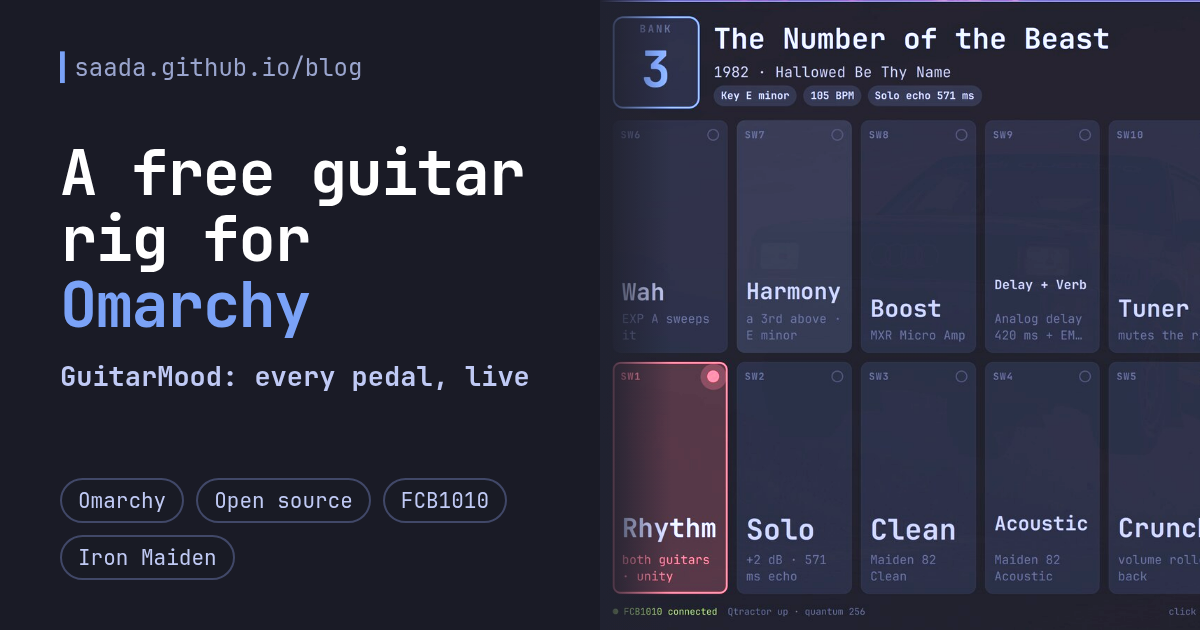
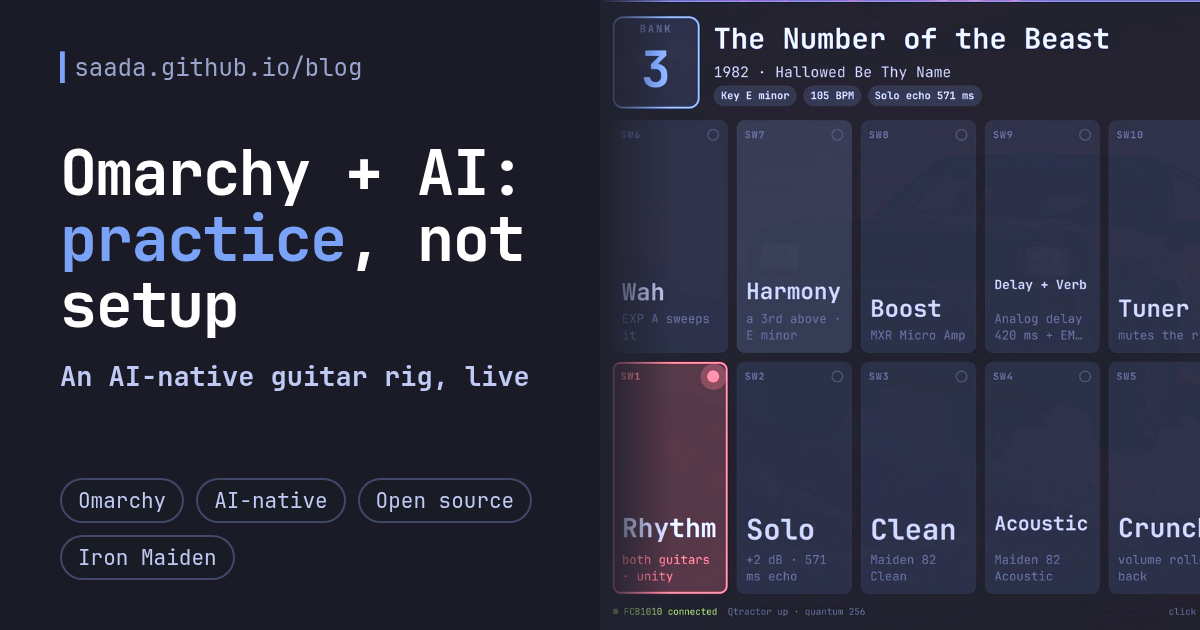
tone3000-linux-rig: frame it as Omarchy + AI-first = practice, not setup
- TL;DR, act one and a new ending ("The point: practice") around the thesis: the tone is
  neural (NAM), an agent (Claude Code running Claude Opus 5.5) built every piece, and the
  result leaves no setup to think about.
- New section "Why Omarchy made this possible", verified on this machine: Claude Code,
  Codex and OpenCode installed via mise; omarchy-agent / omarchy-agent-prompt; usage
  meters; omarchy-theme-set-claude; hyprctl Lua, omarchy-shell IPC, omarchy bar set; the
  QML plugin marketplace.
- Light lines in acts two and five (an agent can't click; it wired GuitarMood into the
  desktop itself). Trimmed elsewhere to stay at ~2,600 words.
- og/twitter description (189 chars) and the card: "Omarchy + AI: practice, not setup",
  kicker "An AI-native guitar rig, live", tags Omarchy / AI-native / Open source / Iron Maiden.

Claude-Session: https://claude.ai/code/session_012TKPMMo4XzZnfbupbKYXAR

Changed region(s): [[0.0308, 0.2413, 0.4317, 0.5429], [0.0308, 0.573, 0.37, 0.6333], [0.185, 0.754, 0.4317, 0.8444]]

diff --git a/blog/tone3000-linux-rig/index.html b/blog/tone3000-linux-rig/index.html
@@ -3,7 +3,7 @@
 <meta charset="utf-8">
 <meta name="viewport" content="width=device-width, initial-scale=1">
 <title>From Wine to GuitarMood: A Free, Native Linux Guitar Rig Anyone Can Run</title>
-<meta name="description" content="Part two: my FCB1010 now drives a free, open-source guitar rig on Omarchy. Seven eras of Iron Maiden, and GuitarMood, an app that is the pedalboard: open it to play, close it to stop.">
+<meta name="description" content="Part two: on AI-first Omarchy, an agent built my whole guitar rig, from neural amp tones to GuitarMood, the app that is my pedalboard. Free, open source, no setup left. Now I just practice.">
 <meta name="author" content="Mahmoud Saada">
 <meta name="keywords" content="GuitarMood, Omarchy, Hyprland, TONE3000, Neural Amp Modeler, NAM, Qtractor, Iron Maiden, Fretwise, FCB1010, Linux guitar, open source, PipeWire, Qt, PySide6">
 <meta name="robots" content="index, follow, max-image-preview:large, max-snippet:-1">
@@ -12,10 +12,10 @@
 <meta property="og:type" content="article">
 <meta property="og:site_name" content="Mahmoud Saada">
 <meta property="og:title" content="From Wine to GuitarMood: A Free, Native Linux Guitar Rig Anyone Can Run">
-<meta property="og:description" content="Part two: my FCB1010 now drives a free, open-source guitar rig on Omarchy. Seven eras of Iron Maiden, and GuitarMood, an app that is the pedalboard: open it to play, close it to stop.">
+<meta property="og:description" content="Part two: on AI-first Omarchy, an agent built my whole guitar rig, from neural amp tones to GuitarMood, the app that is my pedalboard. Free, open source, no setup left. Now I just practice.">
 <meta property="og:url" content="https://saada.github.io/blog/tone3000-linux-rig/">
 <meta property="og:locale" content="en_US">
-<meta property="og:image" content="https://saada.github.io/blog/tone3000-linux-rig/images/og-card.png?v=008c1c9fc7">
+<meta property="og:image" content="https://saada.github.io/blog/tone3000-linux-rig/images/og-card.png?v=e06c1ebc09">
 <meta property="og:image:width" content="1200">
 <meta property="og:image:height" content="630">
 <meta property="og:image:alt" content="GuitarMood, a free guitar rig app for Omarchy: the FCB1010 pedalboard live on screen, bank 3, RHYTHM lit">
@@ -30,8 +30,8 @@
 <meta name="twitter:site" content="@saadazzz">
 <meta name="twitter:creator" content="@saadazzz">
 <meta name="twitter:title" content="From Wine to GuitarMood: A Free, Native Linux Guitar Rig Anyone Can Run">
-<meta name="twitter:description" content="Part two: my FCB1010 now drives a free, open-source guitar rig on Omarchy. Seven eras of Iron Maiden, and GuitarMood, an app that is the pedalboard: open it to play, close it to stop.">
-<meta name="twitter:image" content="https://saada.github.io/blog/tone3000-linux-rig/images/og-card.png?v=008c1c9fc7">
+<meta name="twitter:description" content="Part two: on AI-first Omarchy, an agent built my whole guitar rig, from neural amp tones to GuitarMood, the app that is my pedalboard. Free, open source, no setup left. Now I just practice.">
+<meta name="twitter:image" content="https://saada.github.io/blog/tone3000-linux-rig/images/og-card.png?v=e06c1ebc09">
 <meta name="twitter:image:alt" content="GuitarMood, a free guitar rig app for Omarchy: the FCB1010 pedalboard live on screen, bank 3, RHYTHM lit">
 <script type="application/ld+json">
 {
@@ -39,7 +39,7 @@
   "@type": "BlogPosting",
   "mainEntityOfPage": { "@type": "WebPage", "@id": "https://saada.github.io/blog/tone3000-linux-rig/" },
   "headline": "From Wine to GuitarMood: A Free, Native Linux Guitar Rig Anyone Can Run",
-  "description": "Part two: my FCB1010 now drives a free, open-source guitar rig on Omarchy. Seven eras of Iron Maiden, and GuitarMood, an app that is the pedalboard: open it to play, close it to stop.",
+  "description": "Part two: on AI-first Omarchy, an agent built my whole guitar rig, from neural amp tones to GuitarMood, the app that is my pedalboard. Free, open source, no setup left. Now I just practice.",
   "image": "https://saada.github.io/blog/tone3000-linux-rig/images/og-card.png",
   "datePublished": "2026-09-26T00:00:00Z",
   "dateModified": "2026-09-27T00:00:00Z",
@@ -370,7 +370,7 @@ table.licenses .muted { display:block; font-size:.68rem }
     <div class="terminal__body">
       <div class="prompt">cat tone3000-linux-rig.md</div>
       <h1>From Wine to GuitarMood: A Free, Native Linux Guitar Rig Anyone Can Run</h1>
-      <div class="subtitle">Part two: my FCB1010 now drives a free, open-source guitar rig on Omarchy. Seven eras of Iron Maiden, and GuitarMood, an app that is the pedalboard: open it to play, close it to stop.<span class="cursor">▋</span></div>
+      <div class="subtitle">Part two: on AI-first Omarchy, an agent built my whole guitar rig, from neural amp tones to GuitarMood, the app that is my pedalboard. Free, open source, no setup left. Now I just practice.<span class="cursor">▋</span></div>
     </div>
   </header>
   <article>
@@ -386,13 +386,13 @@ table.licenses .muted { display:block; font-size:.68rem }
 
 <div class="callout tldr">
 <div class="callout__title">TL;DR</div>
-<p>Last time, my FCB1010 finally drove BIAS FX 2. Now it drives a guitar rig that runs natively on Linux, where every piece of software is free and open source. <strong>GuitarMood</strong> is its face: open it from the Omarchy launcher and the whole rig starts; the window <em>is</em> the pedalboard, live and two-way; close it and everything saves and shuts down. It tiles, it autoscales, and it wears your Omarchy theme.</p>
+<p>Last time, my FCB1010 finally drove BIAS FX 2. Now it drives a guitar rig that's AI-native end to end, on <a href="https://omarchy.org">Omarchy</a>. The tone is neural: amp models learned from real gear. The rig was built by an agent: Claude Code running Claude Opus 5.5 wrote every piece, down to <strong>GuitarMood</strong>, the app that <em>is</em> my pedalboard. And there's no setup left to think about: open GuitarMood, stomp, play. Omarchy made that possible, because an agent can drive every part of it. All of it is free and open source.</p>
 <p class="small muted">A 10-minute read. Every experiment, chart and preset behind it is in the <a href="lab/">lab notes</a>. Code: <a href="https://github.com/saada/fcb1010-biasfx2">github.com/saada/fcb1010-biasfx2</a> (MIT).</p>
 </div>
 
 <p class="act" id="act-one">Act one · leaving Wine</p>
 <h2>10 ms on paper, mud in my hands</h2>
-<p><a href="/blog/fcb1010-biasfx2/">Last time</a>, the pedalboard that lived under my desk for years finally talked to BIAS FX 2, and I stood in my living room grinning through The Evil That Men Do. Then I did the thing every developer threatens to do: I left macOS for <a href="https://omarchy.org">Omarchy</a>, the opinionated Arch + Hyprland setup. I love it. My guitar rig did not come along quietly.</p>
+<p><a href="/blog/fcb1010-biasfx2/">Last time</a>, the pedalboard that lived under my desk for years finally talked to BIAS FX 2, and I stood in my living room grinning through The Evil That Men Do. Then I did the thing every developer threatens to do: I left macOS for <a href="https://omarchy.org">Omarchy</a>, the opinionated Arch + Hyprland setup. I love it. It's also AI-first: it ships with Claude Code, Codex and OpenCode installed. I didn't expect that to matter for guitar. It turned out to be the whole story. My guitar rig, meanwhile, did not come along quietly.</p>
 <p>BIAS FX 2 is Windows/macOS only, so it came along under Wine. The scripts from last time still worked, presets loaded, the pedal switched them, and the app claimed about 10 ms of latency. It felt like playing through a swimming pool. That number only covers the app's own buffer; under Wine the audio also crosses an ASIO shim, a JACK bridge and PipeWire, and none of that shows up in the friendly "10 ms". Skill issue? Maybe. Architecture issue? Definitely.</p>
 
 <h2>A native amp sim, and presets as code</h2>
@@ -402,7 +402,7 @@ table.licenses .muted { display:block; font-size:.68rem }
 
 <p class="act" id="part-two">Act two · a DAW nobody clicks</p>
 <h2>Generated, never clicked</h2>
-<p>A standalone amp sim can't do a real wah, a harmony or a compressor. A DAW can, but DAWs want you to click. So the DAW is generated: <code>qtractor_rig.py</code> writes the entire <a href="https://qtractor.org">Qtractor</a> session (tracks, plugins, MIDI bindings) and starts it. Nothing in it was ever touched with a mouse. A compressor and limiter on the way out cut the loudness spread across presets from 9.2 to 4.6 dB and ended a day of hand-levelling. (<a href="lab/#part-two">Picking the DAW, and whether the compressor earned its place →</a>)</p>
+<p>A standalone amp sim can't do a real wah, a harmony or a compressor. A DAW can, but DAWs want you to click, and an agent can't click. It can write files and run commands, so the DAW is generated: <code>qtractor_rig.py</code> writes the entire <a href="https://qtractor.org">Qtractor</a> session (tracks, plugins, MIDI bindings) and starts it. Nothing in it was ever touched with a mouse. A compressor and limiter on the way out cut the loudness spread across presets from 9.2 to 4.6 dB and ended a day of hand-levelling. (<a href="lab/#part-two">Picking the DAW, and whether the compressor earned its place →</a>)</p>
 
 <p class="act" id="maiden">Act three · up the Irons</p>
 <h2>Seven eras of Maiden on one floorboard</h2>
@@ -440,7 +440,7 @@ table.licenses .muted { display:block; font-size:.68rem }
 
 <p class="act">Act five · GuitarMood</p>
 <h2 id="guitarmood">GuitarMood: the rig as an Omarchy app</h2>
-<p>Last time I ended with a promise: a TUI that draws the pedalboard and lights up the switch you just stomped. By now the rig sounded right, but using it still meant a terminal to start it and a pedal that tells you nothing. The FCB1010 shows a bank number and one LED. Is the wah on? Did the boost reset when I changed song? Which bank was Fear of the Dark? So I asked for "a desktop app that shows live status of what i selected in the pedal as a hypland tile and autoscale and plays nice with omarchy... I don't have to guess anything."</p>
+<p>Last time I ended with a promise: a TUI that draws the pedalboard and lights up the switch you just stomped. By now the rig sounded right, but using it still meant a terminal to start it and a pedal that tells you nothing. Is the wah on? Did the boost reset? Which bank was Fear of the Dark? So I asked for "a desktop app that shows live status of what i selected in the pedal as a hypland tile and autoscale and plays nice with omarchy... I don't have to guess anything."</p>
 <p>Claude's first plan was GTK. I asked: "omarchy seems to love Qt?" It does: the Omarchy shell is <a href="https://quickshell.org">Quickshell</a>, which is QML. So the promised TUI grew into a Qt window instead: GuitarMood, a <a href="https://docs.astral.sh/uv/">uv</a> project with a QML front end. (Editing the layout from it is still to come; the board itself is still two tables in <code>rig.py</code>.) It reads the active theme's colours and recolours live when I switch themes.</p>
 
 <h3>The window is the pedalboard</h3>
@@ -462,10 +462,10 @@ table.licenses .muted { display:block; font-size:.68rem }
 <p class="caption">Popped out with SUPER+O: bank 3, RHYTHM, five toggles, none on.</p>
 
 <h3>Never guess</h3>
-<p>The pedal only sends fixed messages (a toggle sends the same CC 127 whether it's switching on or off), so GuitarMood rebuilds the state from the MIDI, following the rig's own rules. DAW effects (wah, harmony) survive a song change; amp-sim blocks (boost, delay) reset to the preset's own state on every preset load; the scene is read from the message that ends each switch's burst. If it joins a rig that's already running, it reads what it can from the saved session and shows "?" for the rest until you press something. The tests replay the MIDI of the first real session I played and check that it ends exactly where I did.</p>
+<p>The pedal only sends fixed messages (a toggle sends CC 127 whether it's switching on or off), so GuitarMood rebuilds the state from the MIDI by the rig's own rules: DAW effects survive a song change, amp-sim blocks reset on every preset load. Anything it can't know shows "?" until you press a switch. The tests replay my first real session and check it ends exactly where I did.</p>
 
 <h3>On is open, off is close, and it's two-way</h3>
-<p>Open it from the launcher and the rig starts, with Qtractor parked on a hidden workspace. A second launch just focuses the window. Close it (SUPER+W), log out or Ctrl-C, and it closes the tuner, saves the session and quits Qtractor; tested end to end, nothing left running. And it works both ways: click a tile or press 1–9, 0 and GuitarMood sends exactly what the FCB would, from the same code that wrote the pedal's layout. The pedal itself can't be told anything, so its own display keeps its bank, and presses from the screen are marked "on screen". (<a href="lab/#guitarmood">How it works, in detail →</a>)</p>
+<p>Because every part of Omarchy is a command, the agent wired GuitarMood into the desktop itself: a launcher entry, and a Hyprland rule that parks Qtractor on a hidden workspace. Open it and the rig starts. A second launch just focuses the window. Close it (SUPER+W), log out or Ctrl-C, and it closes the tuner, saves the session and quits Qtractor; tested end to end, nothing left running. And it works both ways: click a tile or press 1–9, 0 and GuitarMood sends exactly what the FCB would, from the same code that wrote the pedal's layout. The pedal itself can't be told anything, so its own display keeps its bank, and presses from the screen are marked "on screen". (<a href="lab/#guitarmood">How it works, in detail →</a>)</p>
 
 <div class="stats" role="list">
 <div class="stat" role="listitem"><div class="stat__n">0.0%</div><div class="stat__l">GuitarMood's CPU, rig live</div></div>
@@ -474,6 +474,15 @@ table.licenses .muted { display:block; font-size:.68rem }
 <div class="stat" role="listitem"><div class="stat__n">9.2 → 4.6</div><div class="stat__l">dB of loudness spread, compressor on</div></div>
 </div>
 <p class="caption">The numbers, from btop and <a href="https://github.com/saada/fcb1010-biasfx2/blob/main/experiments/README.md">experiments</a> D1, D5, D6 and D11. <a href="lab/#part-two">Charts →</a></p>
+
+<h2 id="why-omarchy">Why Omarchy made this possible</h2>
+<p>None of this took a mouse, and that's not me being stubborn. It's what Omarchy is built for. It's AI-first in exactly the places an agent needs:</p>
+<ul>
+<li><strong>The agents are already there.</strong> Claude Code, Codex and OpenCode come installed. <code>omarchy-agent</code> opens your default one; <code>omarchy-agent-prompt</code> hands it a task. There are usage meters for Claude and Codex, and your Omarchy theme follows you into Claude Code.</li>
+<li><strong>Everything is a command.</strong> Hyprland takes Lua through <code>hyprctl</code>, the shell answers IPC through <code>omarchy-shell</code>, and bar widgets are set with <code>omarchy bar set</code>. That's how Qtractor ends up out of sight, and how SW10 opens Fretwise on the guitar input.</li>
+<li><strong>A marketplace of QML plugins.</strong> When I needed a tuner, the best one was one <code>omarchy plugin add</code> away.</li>
+</ul>
+<p>So the agent built a whole musician's setup the way it writes code: read, write, run, measure. My job was playing, listening, and saying what felt wrong.</p>
 
 <h2 id="free">Free for anyone</h2>
 <p>No Wine, no paid DAW, no subscription. Everything between the guitar cable and the speakers runs natively on Linux, and every piece is open source. I checked each license:</p>
@@ -519,7 +528,9 @@ uv run --project guitarmood \
 <p class="small muted">First set your audio interface and MIDI port at the top of <code>tone3000.py</code>, turn your monitor knob down, and grab the TONE3000 download from <a href="https://www.tone3000.com/plugin">tone3000.com/plugin</a>. The <a href="https://github.com/saada/fcb1010-biasfx2/blob/main/README.md">README</a> has the details.</p>
 <p id="practice">Then every time you play: SUPER+SPACE → GuitarMood. SW10 to tune. Pick a bank with UP/DOWN and press RHYTHM, CLEAN or ACOUSTIC to load the era. Play. SUPER+W when you're done. The one-time setup (FCB upload, real time) and the Maiden song recipes are in the <a href="https://github.com/saada/fcb1010-biasfx2/blob/main/README.md#practice-guide">README's practice guide</a>.</p>
 <p>Last time I pair-programmed with Claude Fable. This time, all of it, from the reverse-engineered preset format to GuitarMood and this write-up, I built with <a href="https://claude.com/claude-code">Claude Code</a> running <strong>Claude Opus 5.5</strong>. Claude wrote the code and ran the research agents and every measurement. I played, listened, and said "bro, wtf is this ugly tuner" when it was needed.</p>
-<p>Up the Irons.</p>
+<h2 id="play">The point: practice</h2>
+<p>Here's what changed. The setup is done, and it stays done. I sit down, open GuitarMood, tune with SW10, pick an era and play along with the record. A Saturday goes to the Rime of the Ancient Mariner solo, not to MIDI menus. The next step is the one the pedalboard was always for: playing this for people, with a screen that tells me exactly where I am.</p>
+<p>There's never been a better time to be a musician on Linux: the OS gets out of the way, an agent builds the rig, and I practice. Up the Irons.</p>
 
 <a class="labcard" href="lab/">
 <span class="labcard__k">Lab notes</span>

diff --git a/blog/tone3000-linux-rig/lab/index.html b/blog/tone3000-linux-rig/lab/index.html
@@ -15,7 +15,7 @@
 <meta property="og:description" content="Every experiment, chart and preset behind From Wine to GuitarMood: latency and xrun runs, silent IRs, gain staging, 36 researched presets, seven Maiden eras, the harmony build and five tuners.">
 <meta property="og:url" content="https://saada.github.io/blog/tone3000-linux-rig/lab/">
 <meta property="og:locale" content="en_US">
-<meta property="og:image" content="https://saada.github.io/blog/tone3000-linux-rig/images/og-card.png?v=008c1c9fc7">
+<meta property="og:image" content="https://saada.github.io/blog/tone3000-linux-rig/images/og-card.png?v=e06c1ebc09">
 <meta property="og:image:width" content="1200">
 <meta property="og:image:height" content="630">
 <meta property="og:image:alt" content="GuitarMood: a free, Linux-native guitar rig app for Omarchy, driven by an FCB1010">
@@ -31,7 +31,7 @@
 <meta name="twitter:creator" content="@saadazzz">
 <meta name="twitter:title" content="Lab Notes: From Wine to GuitarMood">
 <meta name="twitter:description" content="Every experiment, chart and preset behind From Wine to GuitarMood: latency and xrun runs, silent IRs, gain staging, 36 researched presets, seven Maiden eras, the harmony build and five tuners.">
-<meta name="twitter:image" content="https://saada.github.io/blog/tone3000-linux-rig/images/og-card.png?v=008c1c9fc7">
+<meta name="twitter:image" content="https://saada.github.io/blog/tone3000-linux-rig/images/og-card.png?v=e06c1ebc09">
 <meta name="twitter:image:alt" content="GuitarMood: a free, Linux-native guitar rig app for Omarchy, driven by an FCB1010">
 <script type="application/ld+json">
 {
